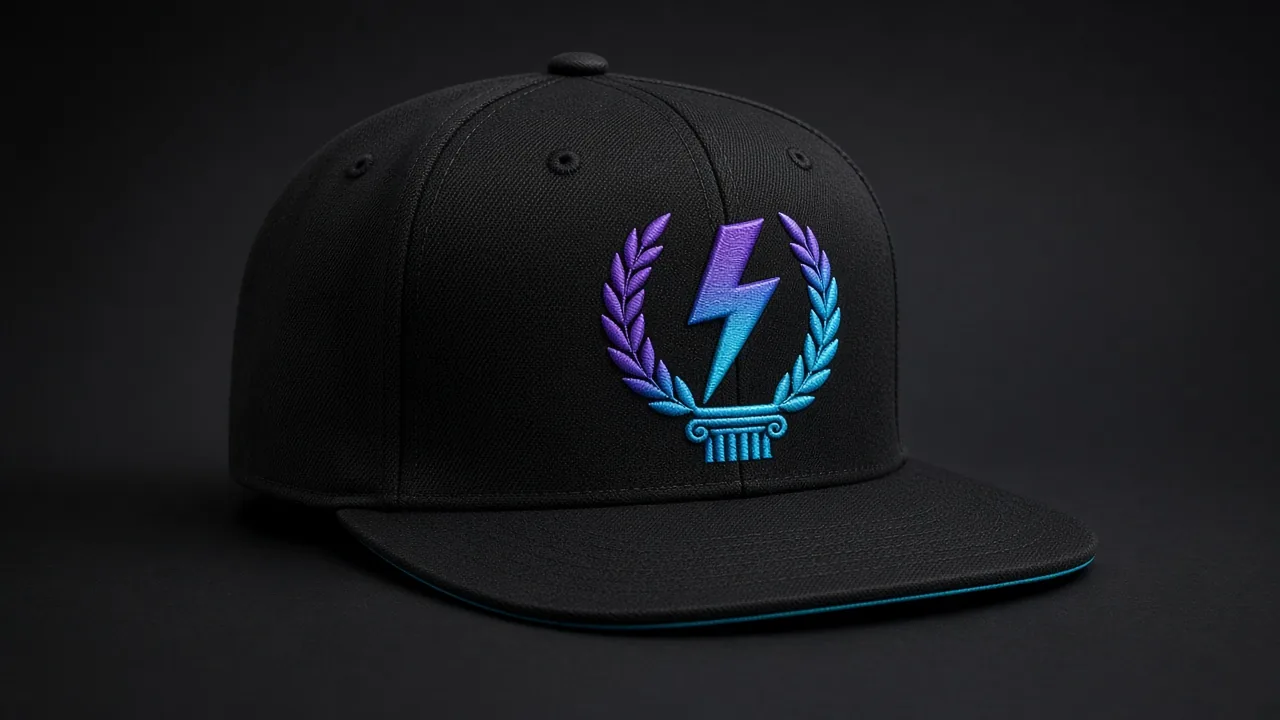
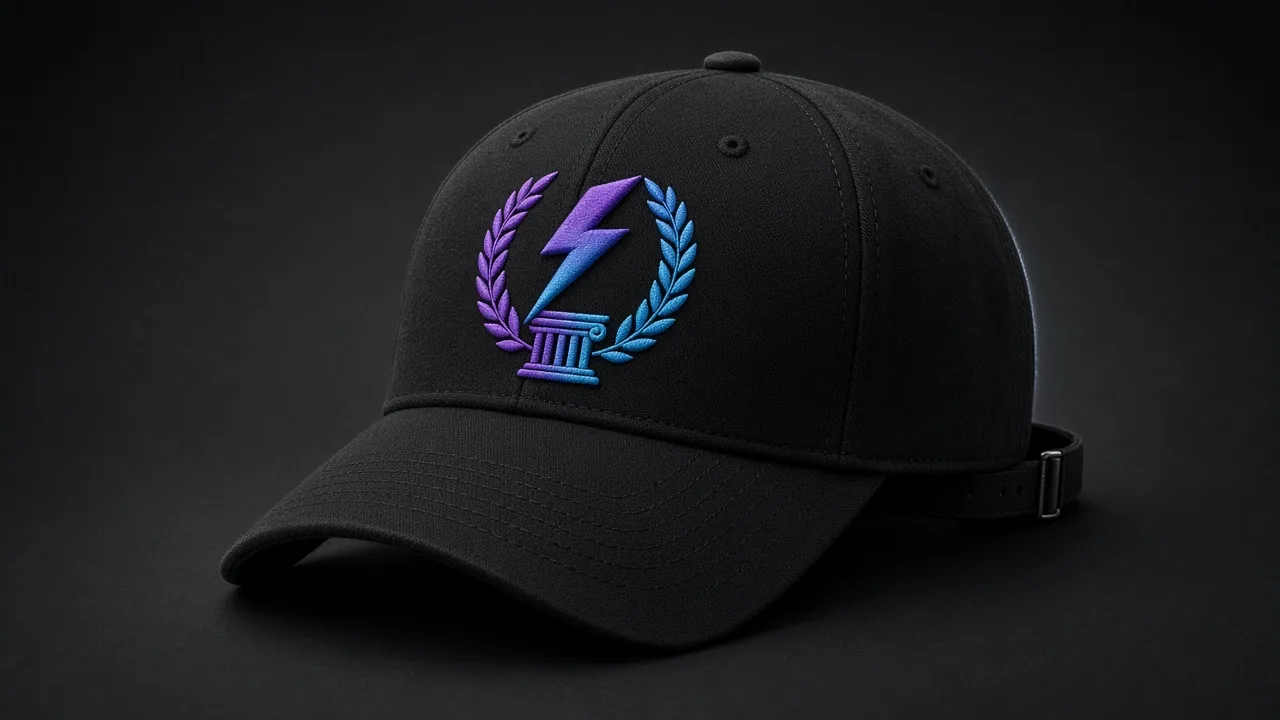
Shop: curved cap, mousepad with printed crest, restore original pendant

Changed region(s): [[0.0625, 0.0611, 0.875, 0.9472]]

diff --git a/public/shop.html b/public/shop.html
@@ -7,7 +7,7 @@
 <meta name="theme-color" content="#000000">
 <link rel="icon" href="favicon.ico" sizes="any"><link rel="icon" type="image/png" href="favicon-32.png"><link rel="apple-touch-icon" href="assets/apple-touch-icon.png">
 <link rel="canonical" href="https://zoisports.com/shop">
-<link rel="stylesheet" href="styles.css?v=2">
+<link rel="stylesheet" href="styles.css?v=3">
 </head>
 <body>
 <header class="nav"><a href="/" class="brand"><img src="assets/zoi-icon.png" alt="" width="36" height="36">ZOI</a>
@@ -17,18 +17,18 @@
 <section class="shop-hero"><span class="est">EST. 2026</span><h2>The ZOI Shop</h2><p class="tag">Zero builds. All life. Official merch is on the way.</p></section>
 <div class="stripes" aria-hidden="true"></div>
 <section><div class="cards three products">
- <div class="card product flagship"><img src="/assets/shop/letterman.webp?v=2" alt="ZOI Letterman Jacket mockup" width="1400" height="788"><div class="info"><span class="badge">Flagship</span><h3>ZOI Letterman Jacket</h3><p>The iconic piece. Black wool body, black leather sleeves, gold-and-cyan striped rib collar, cuffs and waistband, snap front, and the violet-and-cyan crest on the chest.</p><p class="price">Price TBA</p><button class="btn" type="button" disabled>Coming soon</button></div></div>
- <div class="card product"><img src="/assets/shop/jersey.webp?v=2" alt="ZOI Pro Jersey mockup" width="1400" height="788" loading="lazy"><h3>ZOI Pro Jersey</h3><p>The match-day kit. Black V-neck with the gold-laurel crest, cyan-to-gold sleeve trim.</p><p class="price">Price TBA</p><button class="btn" type="button" disabled>Coming soon</button></div>
- <div class="card product"><img src="/assets/shop/hoodie.webp?v=2" alt="Crest Hoodie mockup" width="1400" height="788" loading="lazy"><h3>Crest Hoodie</h3><p>Heavyweight black hoodie with a violet ZOI crest on the chest.</p><p class="price">Price TBA</p><button class="btn" type="button" disabled>Coming soon</button></div>
- <div class="card product"><img src="/assets/shop/tee.webp?v=2" alt="Varsity Tee mockup" width="1400" height="788" loading="lazy"><h3>Varsity Tee</h3><p>Black tee with a gold-and-violet crest and a cyan-and-gold striped collar.</p><p class="price">Price TBA</p><button class="btn" type="button" disabled>Coming soon</button></div>
- <div class="card product"><img src="/assets/shop/longsleeve.webp?v=2" alt="ZOI Varsity Long Sleeve mockup" width="1400" height="788" loading="lazy"><h3>ZOI Varsity Long Sleeve</h3><p>Black long sleeve with a small chest crest and a violet-to-cyan sleeve stripe.</p><p class="price">Price TBA</p><button class="btn" type="button" disabled>Coming soon</button></div>
- <div class="card product"><img src="/assets/shop/cap.webp?v=2" alt="Snapback Cap mockup" width="1400" height="788" loading="lazy"><h3>Snapback Cap</h3><p>Structured black flat-brim snapback with the violet-and-cyan crest and cyan brim trim.</p><p class="price">Price TBA</p><button class="btn" type="button" disabled>Coming soon</button></div>
- <div class="card product"><img src="/assets/shop/mousepad.webp?v=2" alt="Desk Mousepad mockup" width="1400" height="788" loading="lazy"><h3>Desk Mousepad</h3><p>Extended black desk mat with the violet-and-cyan crest in the corner.</p><p class="price">Price TBA</p><button class="btn" type="button" disabled>Coming soon</button></div>
- <div class="card product"><img src="/assets/shop/tumbler.webp?v=2" alt="ZOI Insulated Tumbler mockup" width="1400" height="788" loading="lazy"><h3>ZOI Insulated Tumbler</h3><p>Matte black insulated tumbler with handle and straw lid, violet-and-cyan crest on the front.</p><p class="price">Price TBA</p><button class="btn" type="button" disabled>Coming soon</button></div>
- <div class="card product"><img src="/assets/shop/coin.webp?v=2" alt="ZOI Crest Coin mockup" width="1400" height="788" loading="lazy"><h3>ZOI Crest Coin</h3><p>Heavyweight antique-silver flip coin with the column-and-laurel crest in relief. Built for queue time.</p><p class="price">Price TBA</p><button class="btn" type="button" disabled>Coming soon</button></div>
- <div class="card product"><img src="/assets/shop/stickers.webp?v=2" alt="Sticker Pack mockup" width="1400" height="788" loading="lazy"><h3>Sticker Pack</h3><p>Holographic die-cut sticker set: crest, laurel and lightning-bolt designs.</p><p class="price">Price TBA</p><button class="btn" type="button" disabled>Coming soon</button></div>
+ <div class="card product flagship"><img src="/assets/shop/letterman.webp?v=3" alt="ZOI Letterman Jacket mockup" width="1400" height="788"><div class="info"><span class="badge">Flagship</span><h3>ZOI Letterman Jacket</h3><p>The iconic piece. Black wool body, black leather sleeves, gold-and-cyan striped rib collar, cuffs and waistband, snap front, and the violet-and-cyan crest on the chest.</p><p class="price">Price TBA</p><button class="btn" type="button" disabled>Coming soon</button></div></div>
+ <div class="card product"><img src="/assets/shop/jersey.webp?v=3" alt="ZOI Pro Jersey mockup" width="1400" height="788" loading="lazy"><h3>ZOI Pro Jersey</h3><p>The match-day kit. Black V-neck with the gold-laurel crest, cyan-to-gold sleeve trim.</p><p class="price">Price TBA</p><button class="btn" type="button" disabled>Coming soon</button></div>
+ <div class="card product"><img src="/assets/shop/hoodie.webp?v=3" alt="Crest Hoodie mockup" width="1400" height="788" loading="lazy"><h3>Crest Hoodie</h3><p>Heavyweight black hoodie with a violet ZOI crest on the chest.</p><p class="price">Price TBA</p><button class="btn" type="button" disabled>Coming soon</button></div>
+ <div class="card product"><img src="/assets/shop/tee.webp?v=3" alt="Varsity Tee mockup" width="1400" height="788" loading="lazy"><h3>Varsity Tee</h3><p>Black tee with a gold-and-violet crest and a cyan-and-gold striped collar.</p><p class="price">Price TBA</p><button class="btn" type="button" disabled>Coming soon</button></div>
+ <div class="card product"><img src="/assets/shop/longsleeve.webp?v=3" alt="ZOI Varsity Long Sleeve mockup" width="1400" height="788" loading="lazy"><h3>ZOI Varsity Long Sleeve</h3><p>Black long sleeve with a small chest crest and a violet-to-cyan sleeve stripe.</p><p class="price">Price TBA</p><button class="btn" type="button" disabled>Coming soon</button></div>
+ <div class="card product"><img src="/assets/shop/cap.webp?v=3" alt="Crest Cap mockup" width="1400" height="788" loading="lazy"><h3>Crest Cap</h3><p>Structured black cap with a curved brim, raised violet-and-cyan crest embroidery and an adjustable strap.</p><p class="price">Price TBA</p><button class="btn" type="button" disabled>Coming soon</button></div>
+ <div class="card product"><img src="/assets/shop/mousepad.webp?v=3" alt="Desk Mousepad mockup" width="1400" height="788" loading="lazy"><h3>Desk Mousepad</h3><p>Extended black desk mat with the violet-and-cyan crest in the corner.</p><p class="price">Price TBA</p><button class="btn" type="button" disabled>Coming soon</button></div>
+ <div class="card product"><img src="/assets/shop/tumbler.webp?v=3" alt="ZOI Insulated Tumbler mockup" width="1400" height="788" loading="lazy"><h3>ZOI Insulated Tumbler</h3><p>Matte black insulated tumbler with handle and straw lid, violet-and-cyan crest on the front.</p><p class="price">Price TBA</p><button class="btn" type="button" disabled>Coming soon</button></div>
+ <div class="card product"><img src="/assets/shop/coin.webp?v=3" alt="ZOI Crest Coin mockup" width="1400" height="788" loading="lazy"><h3>ZOI Crest Coin</h3><p>Heavyweight antique-silver flip coin with the column-and-laurel crest in relief. Built for queue time.</p><p class="price">Price TBA</p><button class="btn" type="button" disabled>Coming soon</button></div>
+ <div class="card product"><img src="/assets/shop/stickers.webp?v=3" alt="Sticker Pack mockup" width="1400" height="788" loading="lazy"><h3>Sticker Pack</h3><p>Holographic die-cut sticker set: crest, laurel and lightning-bolt designs.</p><p class="price">Price TBA</p><button class="btn" type="button" disabled>Coming soon</button></div>
 </div>
-<div class="cards"><div class="card product flagship reverse"><img src="/assets/shop/pendant-crest.webp?v=2" alt="ZOI Iced Crest Pendant mockup" width="1400" height="788" loading="lazy"><div class="info"><span class="badge">Featured</span><h3>ZOI Iced Crest Pendant</h3><p>The ZOI crest as one piece — lightning bolt, laurel wreath and Ionic column — pavé-set with stones in silver-tone, on an iced Cuban link chain.</p><p class="price">Price TBA</p><button class="btn" type="button" disabled>Coming soon</button></div></div></div>
+<div class="cards"><div class="card product flagship reverse"><img src="/assets/shop/pendant-crest.webp?v=3" alt="ZOI Iced Crest Pendant mockup" width="900" height="900" style="object-fit:contain;background:#05060a" loading="lazy"><div class="info"><span class="badge">Featured</span><h3>ZOI Iced Crest Pendant</h3><p>The ZOI crest as one piece — lightning bolt, laurel wreath and Ionic column — pavé-set with stones in silver-tone, on a clean white gold chain.</p><p class="price">Price TBA</p><button class="btn" type="button" disabled>Coming soon</button></div></div></div>
 <p class="notify">Get notified when the shop drops: email <a href="mailto:hello@zoisports.com?subject=Notify%20me%20when%20the%20ZOI%20shop%20drops">hello@zoisports.com</a>.</p>
 <p class="small muted">Images are design mockups; final products may differ.</p></section>
 </main>

diff --git a/public/index.html b/public/index.html
@@ -8,7 +8,7 @@
 <link rel="icon" href="favicon.ico" sizes="any"><link rel="icon" type="image/png" href="favicon-32.png"><link rel="apple-touch-icon" href="assets/apple-touch-icon.png">
 <meta property="og:title" content="ZOI — Life in Zero Build"><meta property="og:description" content="New competitive Fortnite Zero Build org. Tryouts open."><link rel="canonical" href="https://zoisports.com/"><meta property="og:url" content="https://zoisports.com/"><meta property="og:image" content="https://zoisports.com/assets/og.jpg"><meta property="og:type" content="website"><meta name="twitter:card" content="summary_large_image">
 <link rel="preload" href="assets/fonts/Graduate-Regular.ttf" as="font" type="font/ttf" crossorigin>
-<link rel="stylesheet" href="styles.css?v=2">
+<link rel="stylesheet" href="styles.css?v=3">
 </head>
 <body>
 <header class="nav"><a href="#top" class="brand"><img src="assets/zoi-icon.png" alt="" width="36" height="36">ZOI</a>
@@ -78,7 +78,7 @@
 </section>
 <div class="stripes" aria-hidden="true"></div>
 <section id="shop"><h2>Shop</h2><p>Official ZOI merch is coming — a flagship letterman jacket, jerseys, hoodies and more.</p>
- <div class="teaser"><img src="/assets/shop/jersey.webp?v=2" alt="ZOI Pro Jersey mockup" width="1400" height="788" loading="lazy"><img src="/assets/shop/hoodie.webp?v=2" alt="Crest Hoodie mockup" width="1400" height="788" loading="lazy"><img src="/assets/shop/letterman.webp?v=2" alt="ZOI Letterman Jacket mockup" width="1400" height="788" loading="lazy"></div>
+ <div class="teaser"><img src="/assets/shop/jersey.webp?v=3" alt="ZOI Pro Jersey mockup" width="1400" height="788" loading="lazy"><img src="/assets/shop/hoodie.webp?v=3" alt="Crest Hoodie mockup" width="1400" height="788" loading="lazy"><img src="/assets/shop/letterman.webp?v=3" alt="ZOI Letterman Jacket mockup" width="1400" height="788" loading="lazy"></div>
  <p><a class="btn ghost" href="/shop">Preview the shop</a></p></section>
 <div class="stripes" aria-hidden="true"></div>
 <section id="socials"><h2>Socials</h2><p>Find us everywhere as <strong>@zoi_sports</strong> — channels launching soon.</p>
